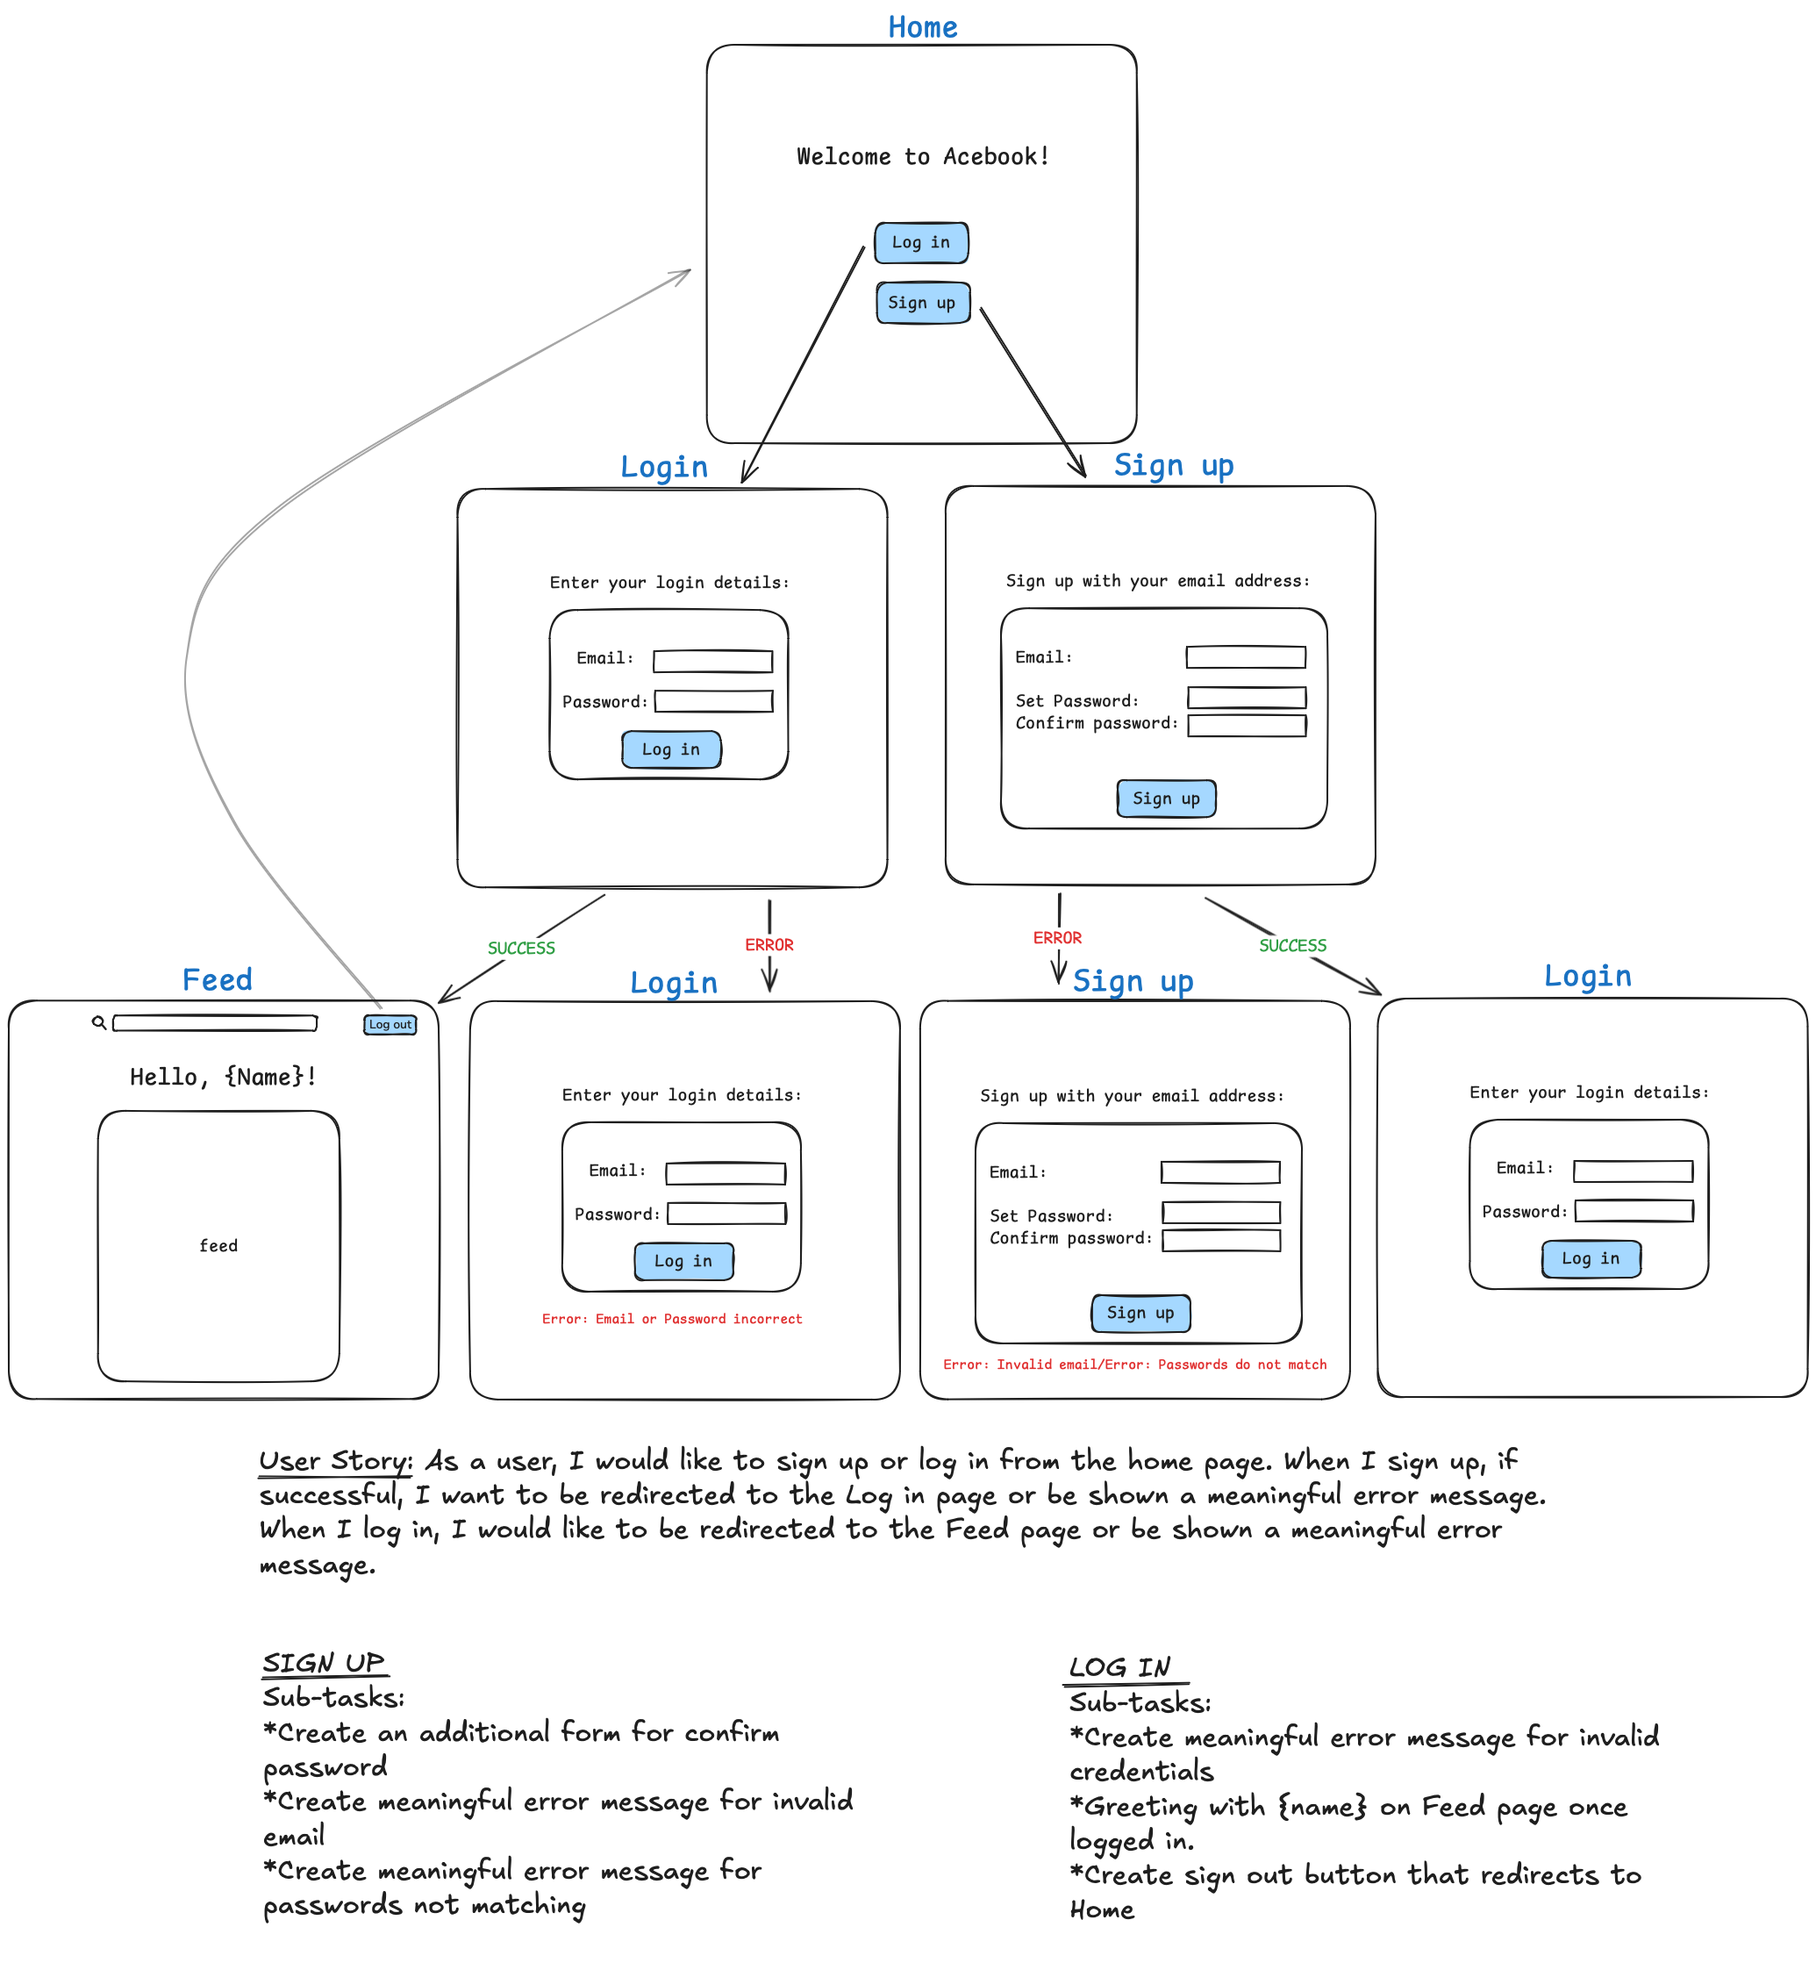
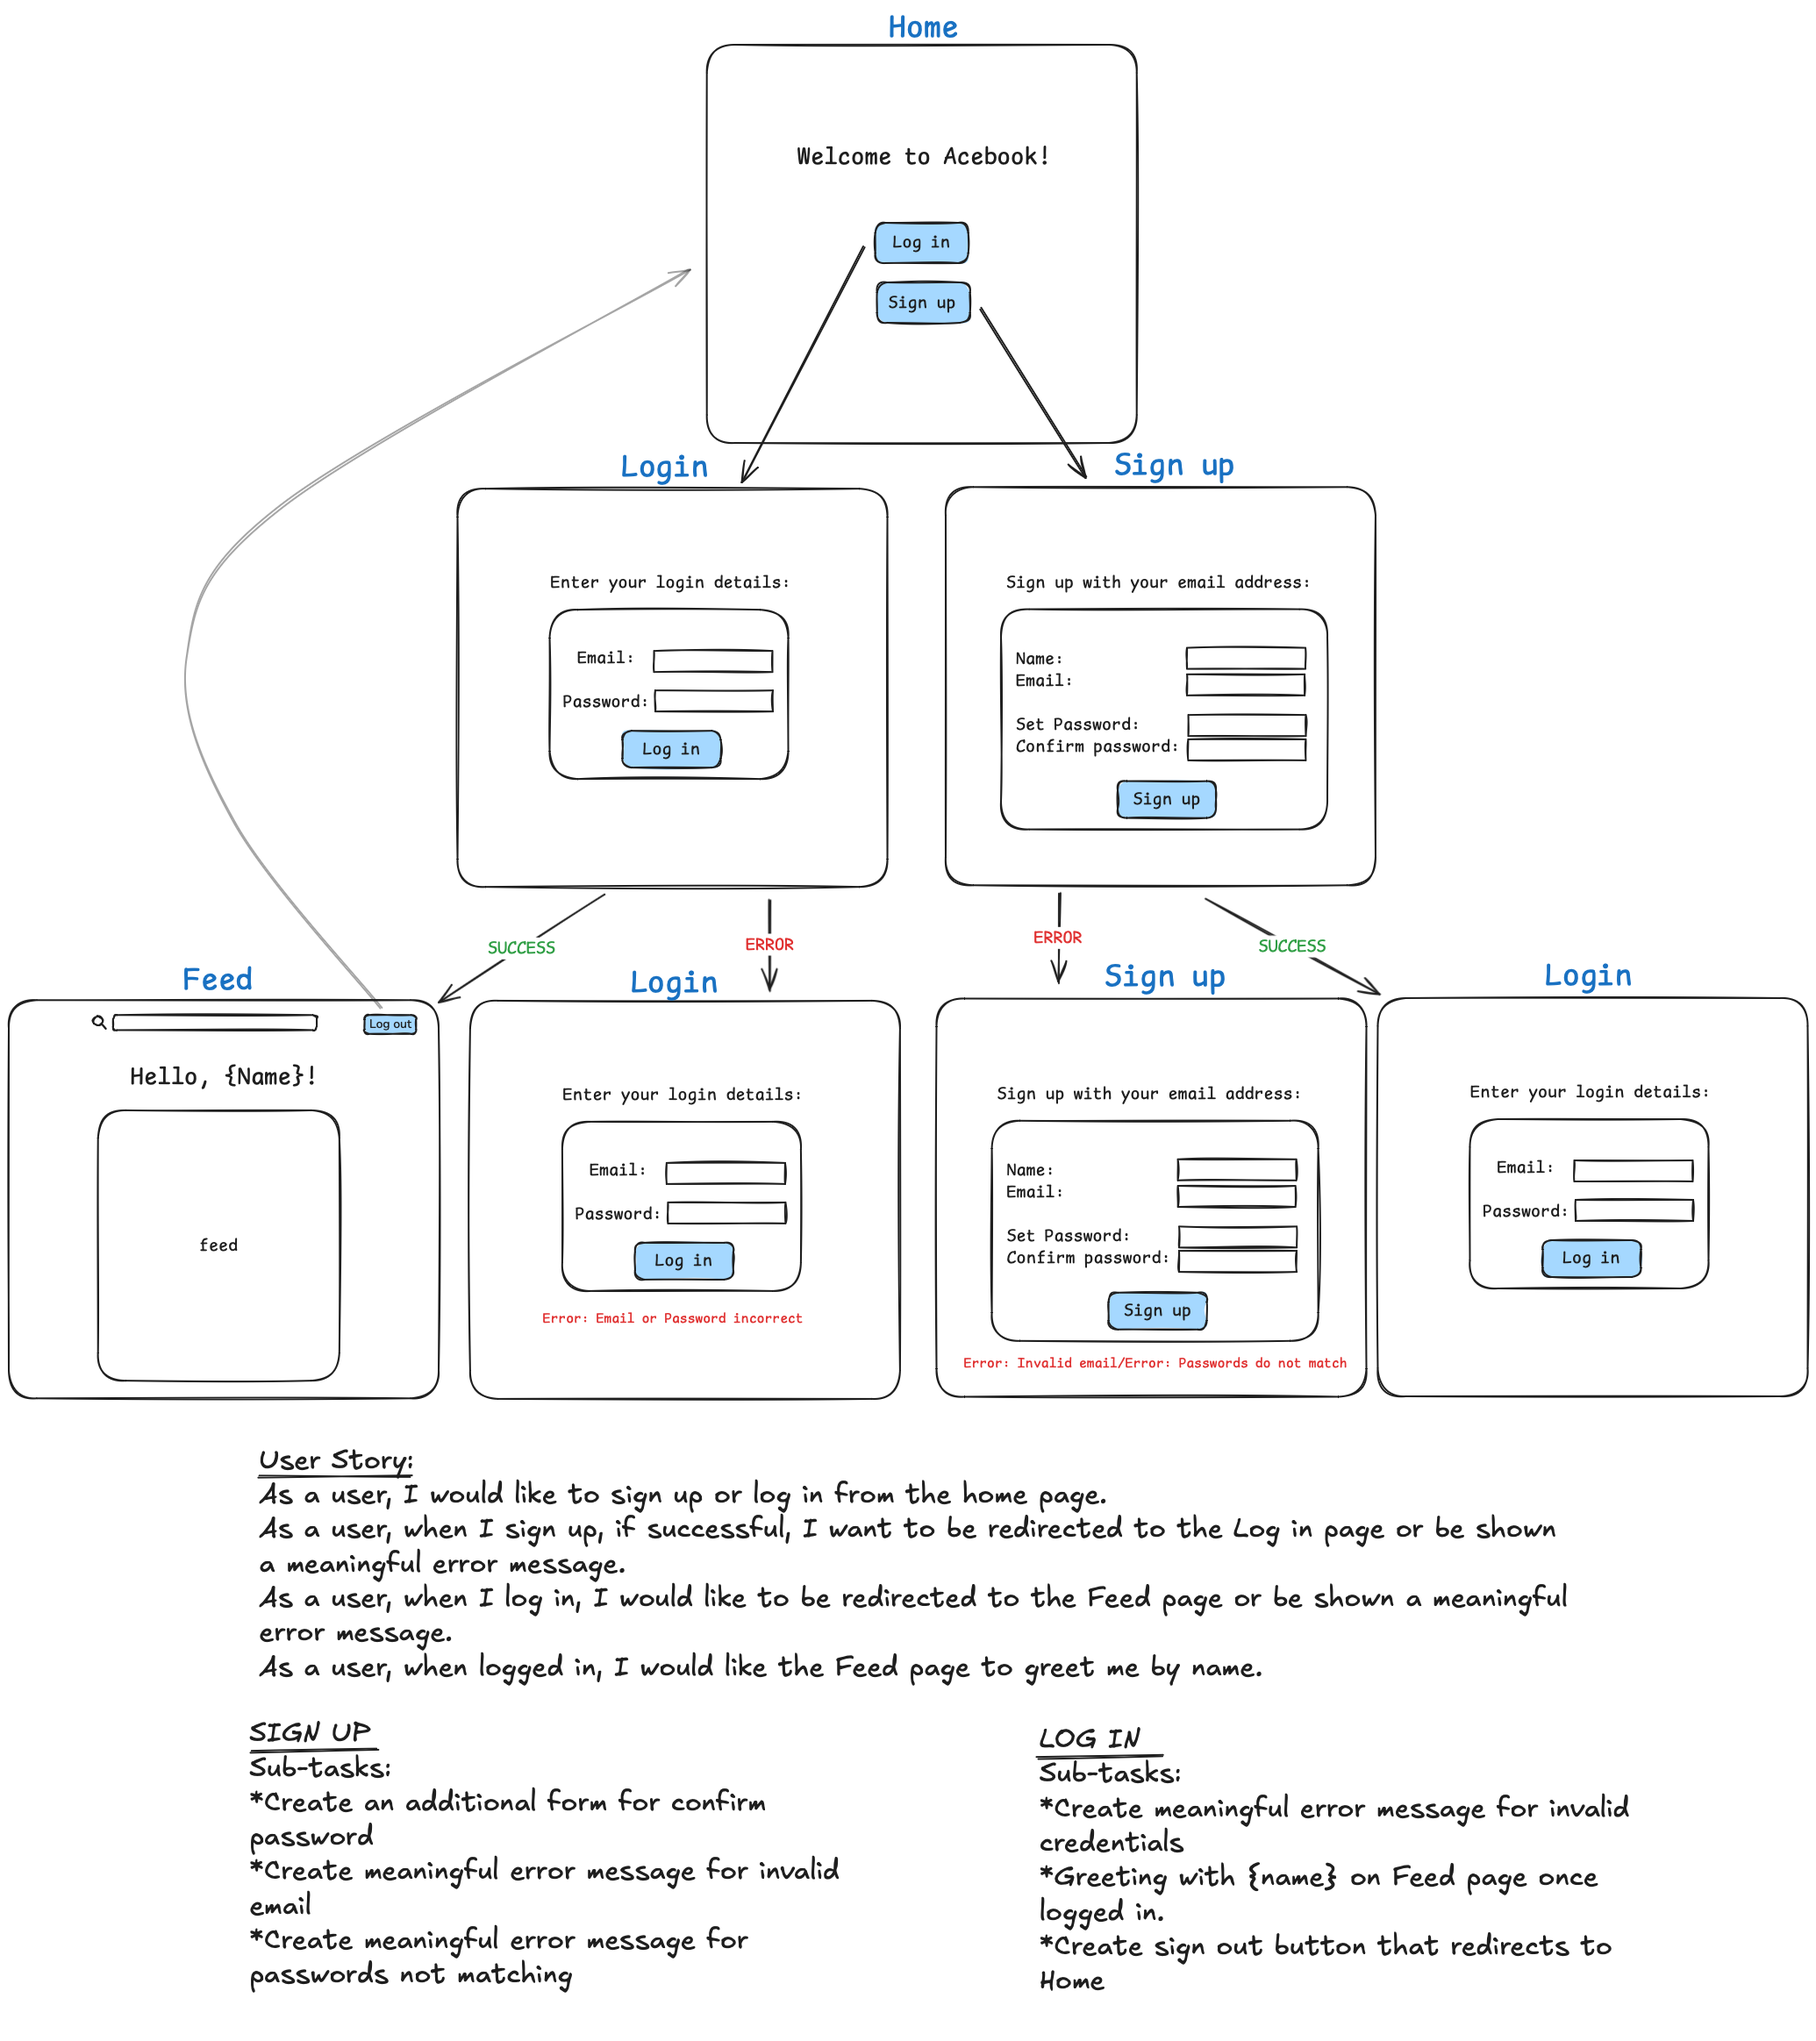
login and signup error handling and some css for login and sign up

diff --git a/frontend/src/pages/Signup/SignupPage.jsx b/frontend/src/pages/Signup/SignupPage.jsx
@@ -6,17 +6,25 @@ import { signup } from "../../services/authentication";
 export const SignupPage = () => {
   const [email, setEmail] = useState("");
   const [password, setPassword] = useState("");
+  const [confirmPassword, setConfirmPassword] = useState("");
+  const [errorMessage, setErrorMessage] = useState("");
   const navigate = useNavigate();
 
   const handleSubmit = async (event) => {
     event.preventDefault();
-    try {
-      await signup(email, password);
-      console.log("redirecting...:");
-      navigate("/login");
-    } catch (err) {
-      console.error(err);
-      navigate("/signup");
+
+    if (password != confirmPassword) {
+      setErrorMessage("Passwords do not match")
+    } else {
+      try {
+        await signup(email, password);
+        console.log("redirecting...:");
+        navigate("/login");
+      } catch (err) {
+        console.error(err);
+        navigate("/signup");
+      }
+
     }
   };
 
@@ -27,11 +35,15 @@ export const SignupPage = () => {
   const handlePasswordChange = (event) => {
     setPassword(event.target.value);
   };
+  const handleConfirmPasswordChange = (event) => {
+    setConfirmPassword(event.target.value);
+  };
 
   return (
     <>
       <h2>Signup</h2>
       <form onSubmit={handleSubmit}>
+        <div className="label-input-container">
         <label htmlFor="email">Email:</label>
         <input
           id="email"
@@ -39,6 +51,8 @@ export const SignupPage = () => {
           value={email}
           onChange={handleEmailChange}
         />
+        </div>
+        <div className="label-input-container">
         <label htmlFor="password">Password:</label>
         <input
           placeholder="Password"
@@ -47,8 +61,21 @@ export const SignupPage = () => {
           value={password}
           onChange={handlePasswordChange}
         />
+        </div>
+        <div className="label-input-container">
+        <label htmlFor="password">Confirm Password:</label>
+        <input
+          placeholder="Password"
+          id="confirm-password"
+          type="password"
+          value={confirmPassword}
+          onChange={handleConfirmPasswordChange}
+        />
+        </div>
         <input role="submit-button" id="submit" type="submit" value="Submit" />
       </form>
+      <br />
+      {errorMessage && <p style={{ color: "red" }}>{errorMessage}</p>}
     </>
   );
 };

diff --git a/frontend/src/pages/Login/LoginPage.jsx b/frontend/src/pages/Login/LoginPage.jsx
@@ -2,10 +2,12 @@ import { useState } from "react";
 import { useNavigate } from "react-router-dom";
 
 import { login } from "../../services/authentication";
+import "./loginPage.css"
 
 export const LoginPage = () => {
   const [email, setEmail] = useState("");
   const [password, setPassword] = useState("");
+  const [errorMessage, setErrorMessage] = useState("");
   const navigate = useNavigate();
 
   const handleSubmit = async (event) => {
@@ -15,8 +17,8 @@ export const LoginPage = () => {
       localStorage.setItem("token", token);
       navigate("/posts");
     } catch (err) {
-      console.error(err);
-      navigate("/login");
+      console.error(err); 
+      setErrorMessage(err.message) 
     }
   };
 
@@ -32,22 +34,28 @@ export const LoginPage = () => {
     <>
       <h2>Login</h2>
       <form onSubmit={handleSubmit}>
-        <label htmlFor="email">Email:</label>
-        <input
-          id="email"
-          type="text"
-          value={email}
-          onChange={handleEmailChange}
-        />
-        <label htmlFor="password">Password:</label>
-        <input
-          id="password"
-          type="password"
-          value={password}
-          onChange={handlePasswordChange}
-        />
+        <div className="label-input-container">
+          <label htmlFor="email">Email:</label>
+          <input
+            id="email"
+            type="text"
+            value={email}
+            onChange={handleEmailChange}
+          />
+        </div>
+        <div className="label-input-container">
+          <label htmlFor="password">Password:</label>
+          <input
+            id="password"
+            type="password"
+            value={password}
+            onChange={handlePasswordChange}
+          />
+        </div>
         <input role="submit-button" id="submit" type="submit" value="Submit" />
       </form>
+      <br />
+      {errorMessage && <p style={{ color: "red" }}>{errorMessage}</p>}
     </>
   );
 };

diff --git a/frontend/src/pages/Login/LoginPage.css b/frontend/src/pages/Login/LoginPage.css
@@ -1,0 +1,93 @@
+
+/* Container for each label-input pair */
+.label-input-container {
+    display: flex;
+    align-items: center;
+    margin: 8px 0;
+  }
+  
+  /* Style for the labels */
+  .label-input-container label {
+    width: 30%; /* Adjust this width as needed */
+    margin-right: 20px; /* Space between label and input */
+    text-align: right;
+    margin-left: 10px;
+  }
+  
+  /* Adjust the input styles */
+  input[type=text], input[type=password] {
+    flex: 1;
+    padding: 12px 20px;
+    margin: 8px 0;
+    display: inline-block;
+    border: 1px solid #f2f0f0;
+    box-sizing: border-box;
+  }
+  
+  /* Other styles remain unchanged */
+  form {
+    border: 2px solid #0c0a0a;
+    border-radius: 20px; /* rounded corners with a radius of 15px */
+    margin: 200px; /* margin for spacing */
+    background-color: #eeebeb; /* light gray background */
+  }
+  
+  #submit {
+    display: inline-block;
+    padding: 10px 20px;
+    font-size: 16px;
+    font-weight: bold;
+    color: #fff;
+    background-color: #2578d0;
+    border-style: outset;
+    border-color: #020405;
+    border-radius: 10px;
+    margin: 5px;
+    cursor: pointer;
+    text-align: center;
+    text-decoration: none;
+    transition: background-color 0.3s ease;
+  }
+  
+  #submit:hover {
+    background-color: #0c417a;
+  }
+  
+  #submit:active {
+    background-color: #004494;
+  }
+  
+  .cancelbtn {
+    width: auto;
+    padding: 10px 18px;
+    background-color: #f44336;
+  }
+  
+  .imgcontainer {
+    text-align: center;
+    margin: 24px 0 12px 0;
+  }
+  
+  img.avatar {
+    width: 40%;
+    border-radius: 50%;
+  }
+  
+  .container {
+    padding: 16px;
+  }
+  
+  span.psw {
+    float: right;
+    padding-top: 16px;
+  }
+  
+  @media screen and (max-width: 300px) {
+    span.psw {
+      display: block;
+      float: none;
+    }
+    .cancelbtn {
+      width: 100%;
+    }
+  }

diff --git a/api/controllers/authentication.js b/api/controllers/authentication.js
@@ -11,7 +11,7 @@ const createToken = async (req, res) => {
     res.status(401).json({ message: "User not found" });
   } else if (user.password !== password) {
     console.log("Auth Error: Passwords do not match");
-    res.status(401).json({ message: "Password incorrect" });
+    res.status(401).json({ message: "Invalid password" });
   } else {
     const token = generateToken(user.id);
     res.status(201).json({ token: token, message: "OK" });

diff --git a/frontend/src/services/authentication.js b/frontend/src/services/authentication.js
@@ -22,9 +22,8 @@ export const login = async (email, password) => {
     let data = await response.json();
     return data.token;
   } else {
-    throw new Error(
-      `Received status ${response.status} when logging in. Expected 201`
-    );
+    const errorData = await response.json();
+    throw new Error(errorData.message || `Received status ${response.status} when logging in. Expected 201`);
   }
 };
 
